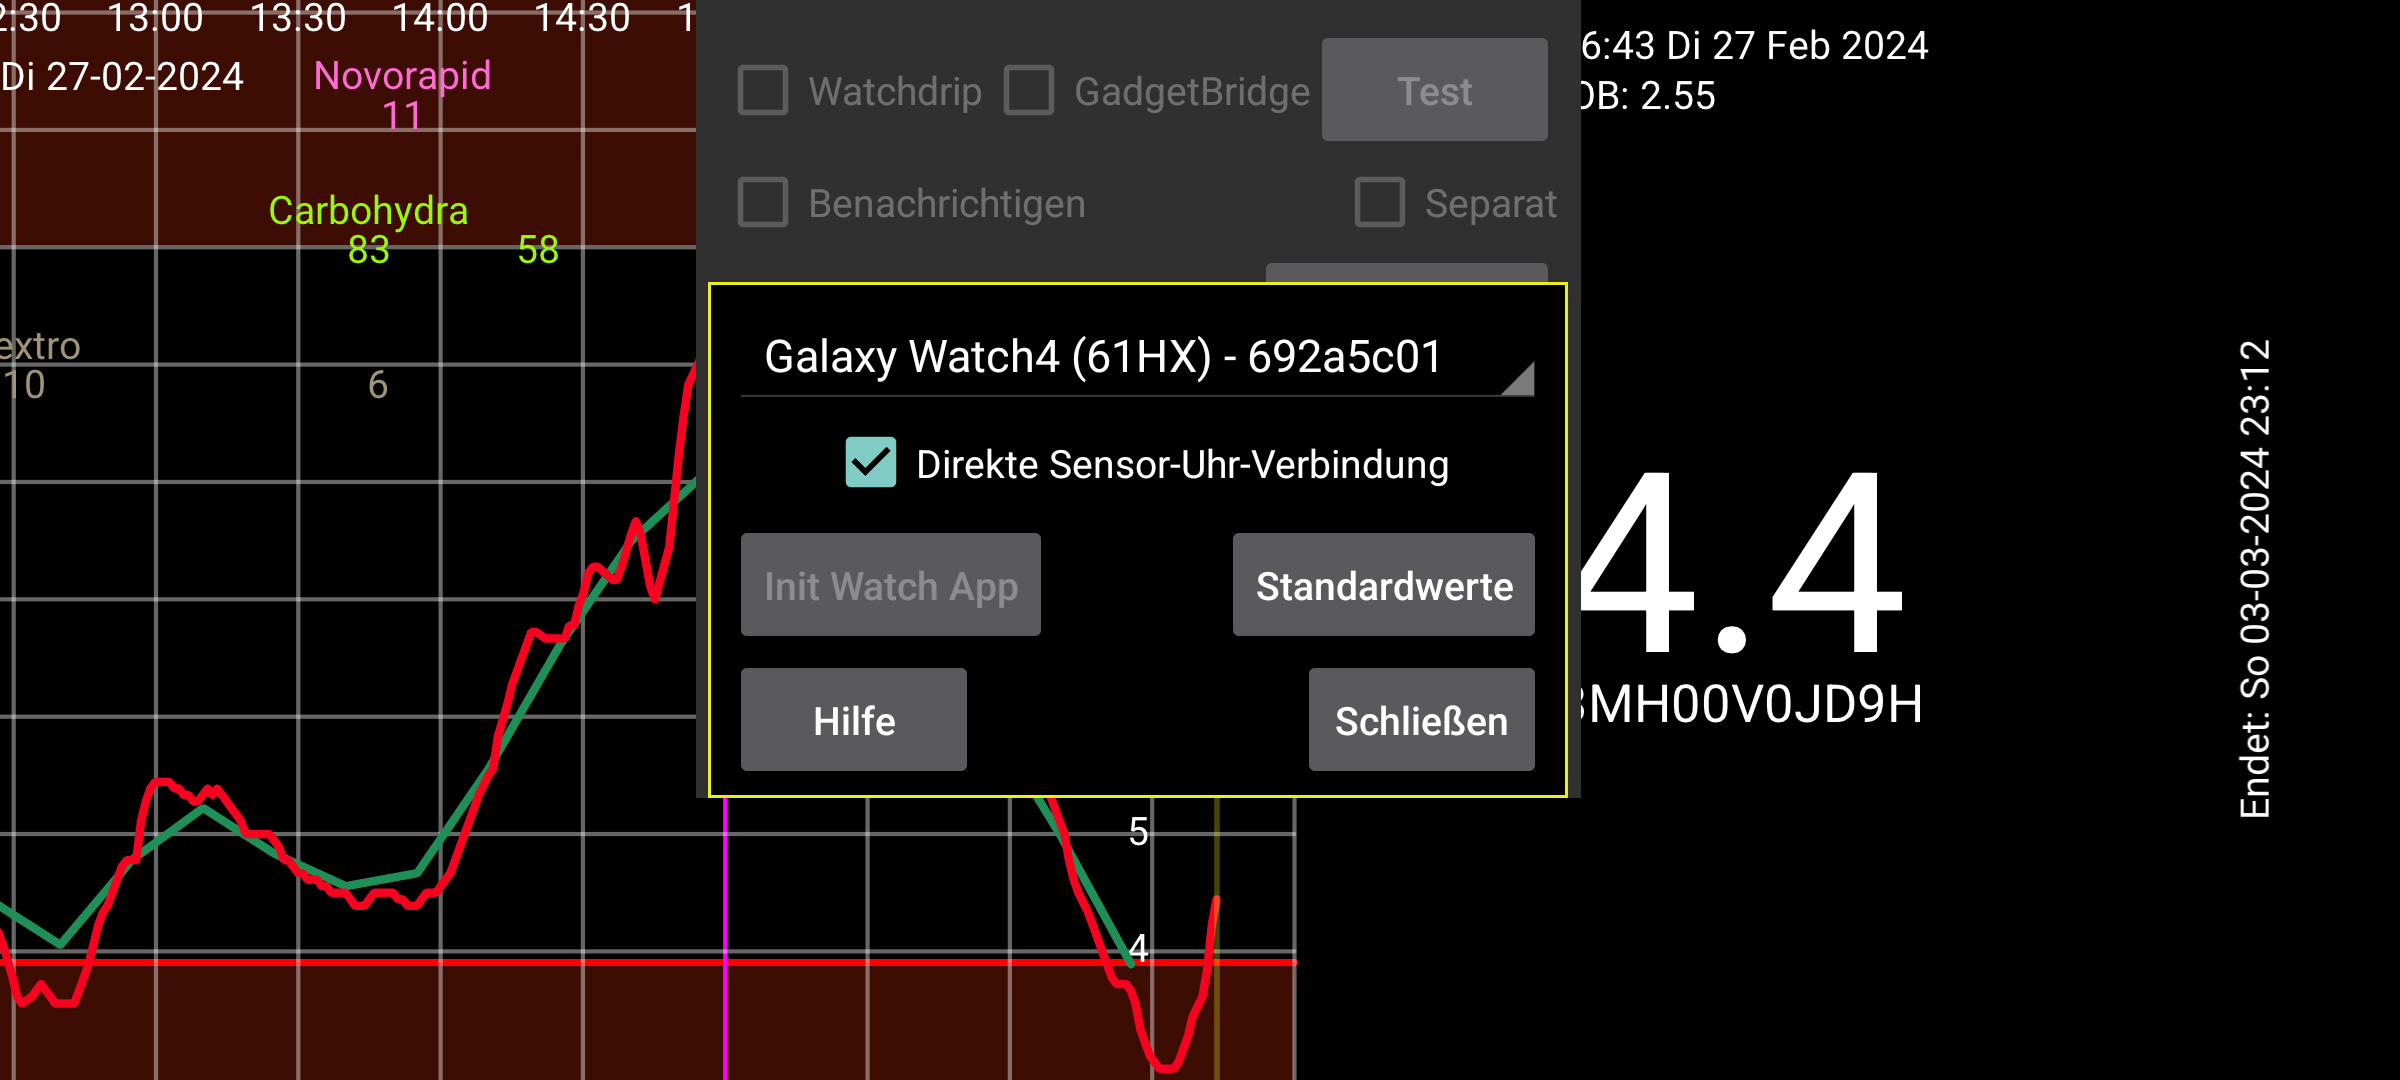
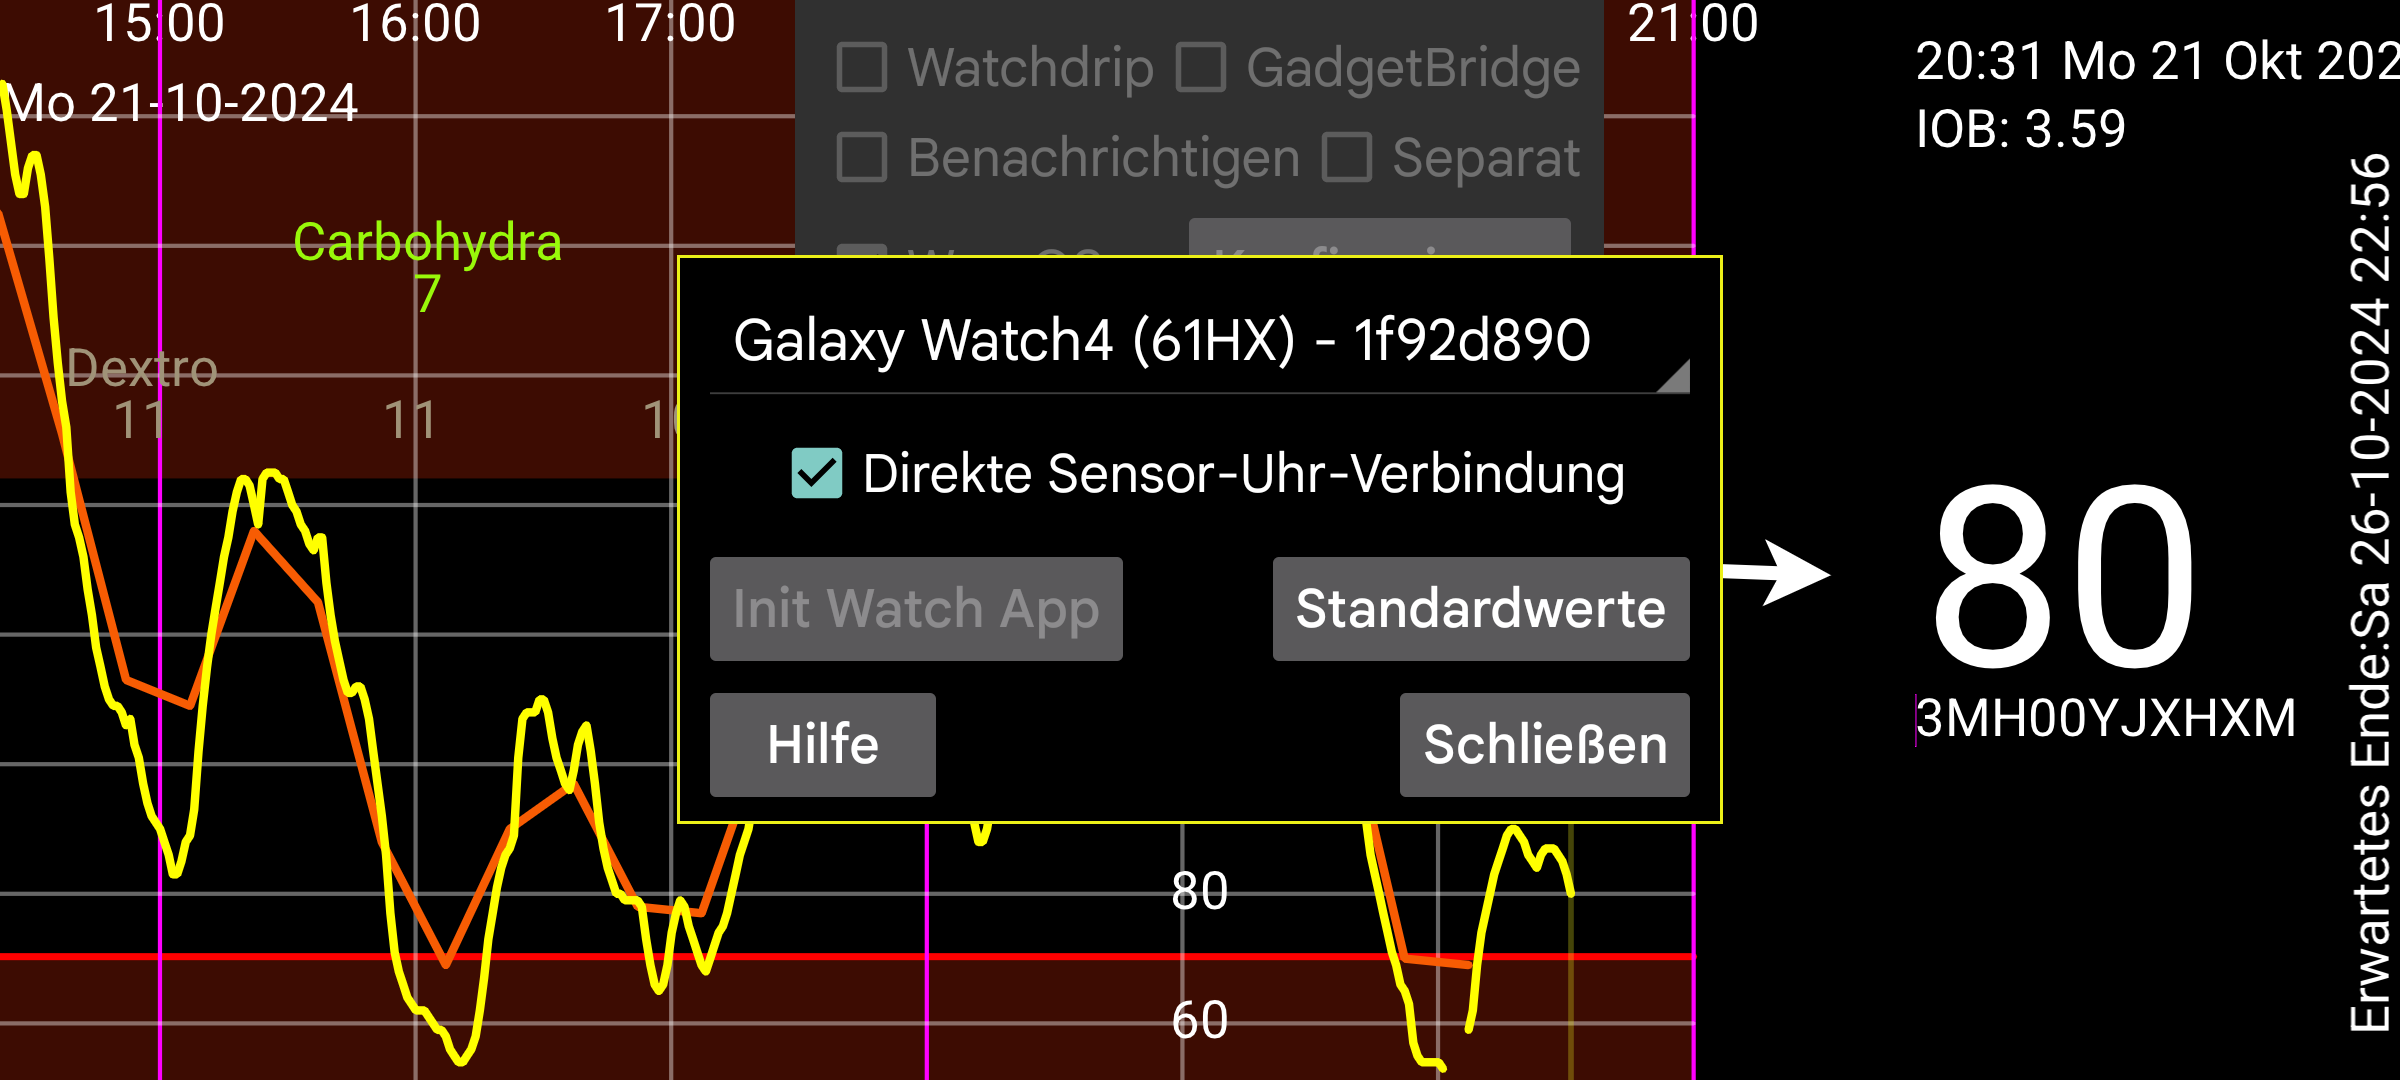
depng

diff --git a/de/garminconfig.html b/de/garminconfig.html
@@ -17,6 +17,8 @@
 		h2.ctl { font-family: "Droid Sans Devanagari" }
 	</style>
 </head>
+
+ <img src="garminstatus.png"  style="object-fit:contain; width:15cm;                   height:auto;">
 <body lang="de-DE" dir="ltr"><h1 class="western" style="font-variant: normal; letter-spacing: normal; font-style: normal; font-weight: normal; orphans: 2; widows: 2">
 <font face="Times New Roman">Kerfstok-Konfiguration</font></h1>
 <p style="orphans: 2; widows: 2"><span style="font-variant: normal"><font face="Times New Roman"><font size="4" style="font-size: 14pt"><span style="letter-spacing: normal"><span lang="de-DE"><span style="font-style: normal"><span style="font-weight: normal">Die&nbsp;</span></span></span></span></font></font></span><span style="font-variant: normal"><font face="Times New Roman"><font size="4" style="font-size: 14pt"><span style="letter-spacing: normal"><span lang="de-DE"><span style="font-style: normal"><b>Quelle</b></span></span></span></font></font></span><span style="font-variant: normal"><span style="letter-spacing: normal"><span lang="de-DE">&nbsp;</span></span></span><span style="font-variant: normal"><font face="Times New Roman"><font size="4" style="font-size: 14pt"><span style="letter-spacing: normal"><span lang="de-DE"><span style="font-style: normal"><span style="font-weight: normal">von

diff --git a/sensorhelp.html b/sensorhelp.html
@@ -64,7 +64,7 @@ Freestyle Libre 3 sensors and on none of the smartphones I tried it
 on.</font></p>
 <p style="border: none; padding: 0in"><font face="Liberation Serif, serif"><b>Android</b>:
 Let Android instead of Juggluco make the connection with the sensor.
-Don’t use it!</font></p>
+Don’t use it! In most cases it will take longer before a connection is established. This option was introduced because of a broken Android 13 version, which is later repaired. You should only turn this on when in this sensor screen no recent times are displayed. That means that no connection errors or sensor errors are shown, but also no values are received and you can get it working again by turning off and on Bluetooth. When you try to connect European Libre 2 sensor with two apps on the same phone at the same time (that is only then possible), you can also get in that state.</font></p>
 <p style="border: none; padding: 0in"><font face="Liberation Serif, serif"><i><b>Info</b></i>:
 Gives start and end times and last scan and stream times of sensor.</font></p>
 <p style="border: none; padding: 0in"><font face="Liberation Serif, serif">To

diff --git a/watchinfo.html b/watchinfo.html
@@ -103,12 +103,6 @@ to a user there exist also a watch face for </span><span lang="en-US"><b>Fitbit<
 <p style="line-height: 100%; margin-bottom: 0in"><span lang="en-US">For
 more information on the web server interface see
 <a href="https://www.juggluco.nl/Juggluco/webserver.html">https://www.juggluco.nl/Juggluco/webserver.html</a></span></p>
-<p style="line-height: 100%; margin-bottom: 0in"><b>local only</b>:
-only accept connections from localhost (127.0.0.1). If you turn it
-off, also other hosts can access the server. This only applies to
-http, https is always possible. If you don't configure your firewall
-to redirect to port 17580, this will be only hosts on your home
-network.</p>
 <h2 class="western"><a href="https://www.juggluco.nl/Jugglucohelp/wearosinfo.html">WearOS Juggluco</a></h2>
 <p>There is a version of Juggluco ported to Wear OS. The display is
 adapted to the smaller screen and a watch face is added. The watch

diff --git a/de/Nightscouthelp.html b/de/Nightscouthelp.html
@@ -4,17 +4,9 @@
 	<meta http-equiv="content-type" content="text/html; charset=utf-8"/>
 	<title></title>
 	<meta name="generator" content="LibreOffice 7.5.9.2 (Linux)"/>
-	<meta name="created" content="00:00:00"/>
-	<meta name="changed" content="2024-01-28T20:48:52.249306517"/>
-	<meta name="created" content="00:00:00">
-	<meta name="created" content="00:00:00">
-	<meta name="created" content="00:00:00">
-	<meta name="created" content="00:00:00">
-	<meta name="created" content="00:00:00">
-	<meta name="created" content="00:00:00">
-	<meta name="created" content="00:00:00">
-	<meta name="created" content="00:00:00">
 </head>
+
+ <img src="webserver.png"  style="object-fit:contain; width:15cm;                   height:auto;">
 <body lang="de-DE" dir="ltr"><h1>Webserver</h1>
 <p style="line-height: 100%; margin-bottom: 0in">Juggluco enthält
 einen Webserver, über den andere Apps Glukosewerte von Juggluco

diff --git a/de/talkhelp.html b/de/talkhelp.html
@@ -4,18 +4,14 @@
 	<meta http-equiv="content-type" content="text/html; charset=utf-8"/>
 	<title></title>
 	<meta name="generator" content="LibreOffice 7.5.7.1 (Linux)"/>
-	<meta name="created" content="00:00:00"/>
 	<meta name="changed" content="2023-10-26T14:46:18.636871658"/>
-	<meta name="created" content="00:00:00">
-	<meta name="created" content="00:00:00">
-	<meta name="created" content="00:00:00">
-	<meta name="created" content="00:00:00">
-	<meta name="created" content="00:00:00">
 	<style type="text/css">
 		h2.cjk { font-family: "Droid Sans Fallback" }
 		h2.ctl { font-family: "Droid Sans Devanagari" }
 	</style>
 </head>
+
+ <img src="talk.png"  style="object-fit:contain; width:15cm;                   height:auto;">
 <body lang="de-DE" dir="ltr"><h1>Sprechen</h1>
 <h2 class="western">Glukose sprechen</h2>
 <p>Sagt Glukosewerte, wenn sie eintreffen.</p>

diff --git a/de/reminders.html b/de/reminders.html
@@ -15,6 +15,8 @@
 		p { line-height: 115%; margin-bottom: 0.1in; background: transparent }
 	</style>
 </head>
+
+ <img src="reminders.png"  style="object-fit:contain; width:15cm;                   height:auto;">
 <body lang="de-DE" dir="ltr"><h1 class="western" style="font-variant: normal; letter-spacing: normal; font-style: normal; font-weight: normal; orphans: 2; widows: 2; margin-top: 0in; margin-bottom: 0.1in">
 <font face="Liberation Sans, sans-serif"><font size="5" style="font-size: 18pt">Erinnerungen</font></font></h1>
 <p style="font-variant: normal; letter-spacing: normal; font-style: normal; font-weight: normal; line-height: 0.17in; orphans: 2; widows: 2; margin-bottom: 0in">

diff --git a/de/stathelp.html b/de/stathelp.html
@@ -19,6 +19,8 @@
 		h3.ctl { font-family: "Droid Sans Devanagari" }
 	</style>
 </head>
+ <img src="statistics.png"  style="object-fit:contain; width:15cm;                   height:auto;">
+ <img src="summarygraph.png"  style="object-fit:contain; width:15cm;                   height:auto;">
 <body lang="de-DE" dir="ltr"><h1 class="western">Statistiken</h1>
 <p style="line-height: 0.19in; orphans: 2; widows: 2; background: transparent">
 <span style="font-variant: normal"><font face="Times New Roman"><font size="4" style="font-size: 14pt"><span style="letter-spacing: normal"><span style="font-style: normal"><span style="font-weight: normal">Einige

diff --git a/de/alarmhelp.html b/de/alarmhelp.html
@@ -13,6 +13,8 @@
 		h3.ctl { font-family: "Droid Sans Devanagari" }
 	</style>
 </head>
+
+ <img src="alarms.png"  style="object-fit:contain; width:15cm;                   height:auto;">
 <body lang="de-DE" dir="ltr"><h1 style="font-variant: normal; letter-spacing: normal; font-style: normal; font-weight: normal; orphans: 2; widows: 2">
 <font face="Times New Roman">Alarm</font></h1>
 <h2 class="western" style="font-variant: normal; letter-spacing: normal; font-style: normal; font-weight: normal; orphans: 2; widows: 2; margin-top: 0.14in; margin-bottom: 0.08in; background: transparent">

diff --git a/de/searchhelp.html b/de/searchhelp.html
@@ -15,6 +15,8 @@
 		p { line-height: 115%; margin-bottom: 0.1in; background: transparent }
 	</style>
 </head>
+
+ <img src="search.png"  style="object-fit:contain; width:15cm;                   height:auto;">
 <body lang="de-DE" dir="ltr"><h1 class="western" style="font-variant: normal; letter-spacing: normal; font-style: normal; font-weight: normal; orphans: 2; widows: 2">
 <font face="Times New Roman">Suche</font></h1>
 <p style="font-variant: normal; letter-spacing: normal; font-style: normal; font-weight: normal; orphans: 2; widows: 2; margin-bottom: 0in; background: transparent">

diff --git a/de/labelhelp.html b/de/labelhelp.html
@@ -15,6 +15,8 @@
 		p { line-height: 115%; margin-bottom: 0.1in }
 	</style>
 </head>
+
+ <img src="labels.png"  style="object-fit:contain; width:15cm;                   height:auto;">
 <body lang="de-DE" dir="ltr"><h1 class="western" style="font-variant: normal; letter-spacing: normal; font-style: normal; font-weight: normal; orphans: 2; widows: 2">
 <font face="Times New Roman">Etiketten für Mengen</font></h1>
 <p style="font-variant: normal; letter-spacing: normal; font-style: normal; font-weight: normal; orphans: 2; widows: 2; margin-bottom: 0in; background: transparent">

diff --git a/de/colorhelp.html b/de/colorhelp.html
@@ -15,6 +15,8 @@
 		p { line-height: 115%; margin-bottom: 0.1in }
 	</style>
 </head>
+
+ <img src="color.png"  style="object-fit:contain; width:15cm;                   height:auto;">
 <body lang="de-DE" dir="ltr"><h1 class="western" style="font-variant: normal; letter-spacing: normal; font-style: normal; font-weight: normal; orphans: 2; widows: 2">
 <font face="Times New Roman">Farben</font></h1>
 <p style="font-variant: normal; letter-spacing: normal; font-style: normal; font-weight: normal; orphans: 2; widows: 2">

diff --git a/de/newlabelhelp.html b/de/newlabelhelp.html
@@ -13,6 +13,8 @@
 		h2.ctl { font-family: "Droid Sans Devanagari" }
 	</style>
 </head>
+
+ <img src="newlabel.png"  style="object-fit:contain; width:15cm;                   height:auto;">
 <body lang="de-DE" dir="ltr"><h2 class="western" style="font-variant: normal; letter-spacing: normal; font-style: normal; font-weight: normal">
 <font face="Times New Roman">Etikett:</font></h2>
 <p style="font-variant: normal; letter-spacing: normal; font-style: normal; font-weight: normal; orphans: 2; widows: 2">
